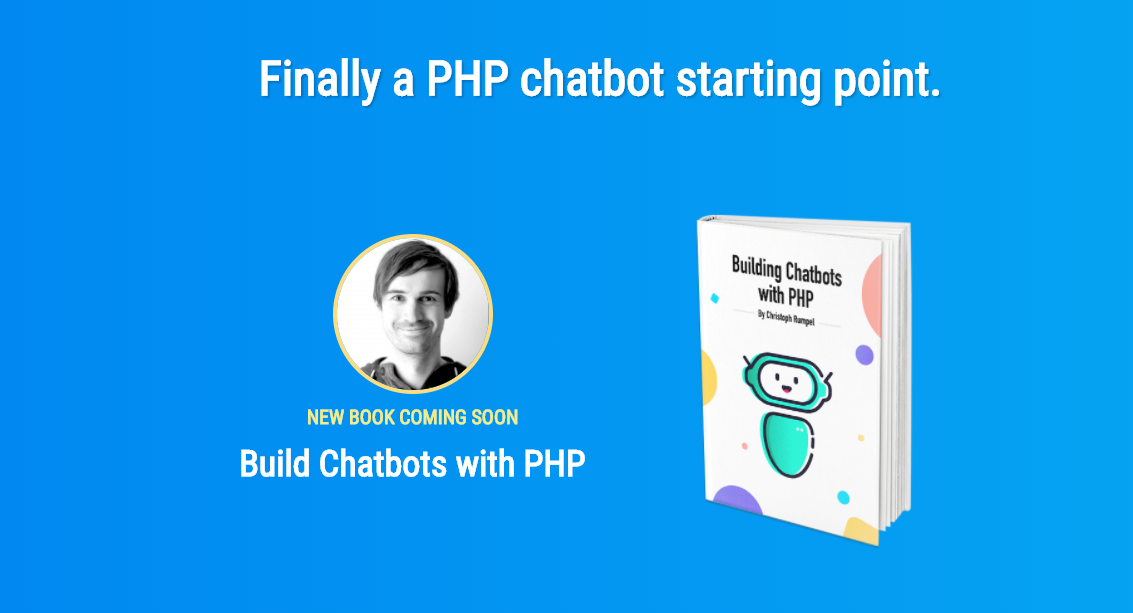
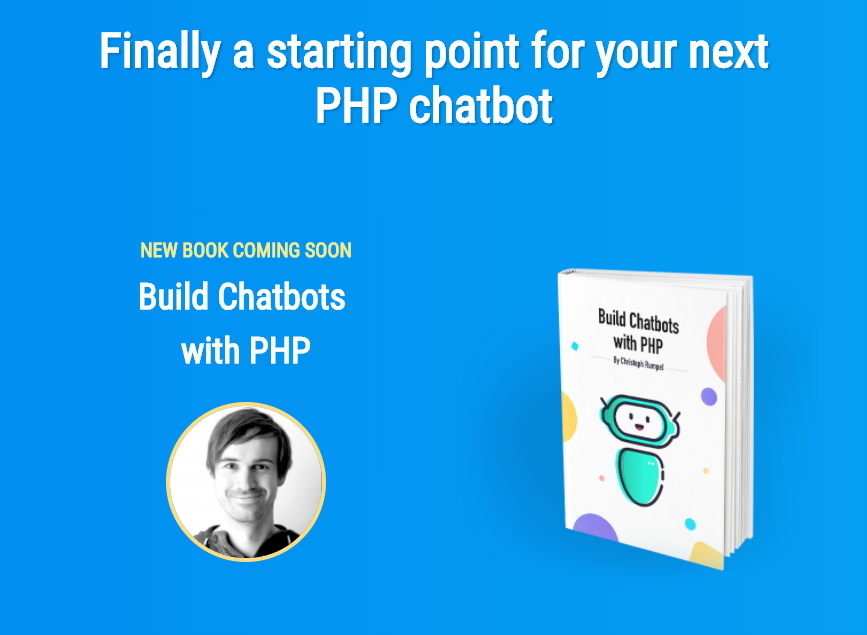
Change book headline and image

Changed region(s): [[0.5917, 0.3409, 0.872, 0.8989], [0.1557, 0.3719, 0.5294, 0.8989], [0.0934, 0.031, 0.9031, 0.217]]

diff --git a/resources/views/partials/book-header.blade.php b/resources/views/partials/book-header.blade.php
@@ -1,7 +1,6 @@
 <header class="book-bg w-screen flex justify-center items-center flex-col py-16 mb-32 relative">
     <div class="w-4/5 sm:w-3/5 md:w-100">
-        <h1 id="headline" class="text-white m-0 mb-10 text-5xl font-landing text-center text-shadow-lighter">Finally a PHP chatbot
-            starting point.
+        <h1 id="headline" class="text-white m-0 mb-10 text-5xl font-landing text-center text-shadow-lighter">Finally a starting point for your next PHP chatbot
         </h1>
     </div>
     <div class="md:mt-10 flex w-screen justify-center items-center flex-row">

diff --git a/content/posts/2016-08-09.build-a-php-chatbot-in-10-minutes.md b/content/posts/2016-08-09.build-a-php-chatbot-in-10-minutes.md
@@ -8,7 +8,11 @@ summary: "The chatbot topic is huge right now. Finally there is something quite 
 
 ## Shortcut
 
-If you just want to see the code, check it out on [Github](https://github.com/christophrumpel/chatbot-php-boilerplate).
+If you just want to see the code, check it out on [Github](https://github.com/christophrumpel/chatbot-php-boilerplate). If you're interested in more about chatbots and PHP, check out my upcoming [book](https://christoph-rumpel.com/build-chatbots-with-php).
+
+<a href="https://christoph-rumpel.com/build-chatbots-with-php">
+<img class="blogimage" alt="Image showing my new upcoming e-book Build chatbots with PHP" src="/images/book/book_ad.png" />
+</a>
 
 
 ## The perfect entry point
